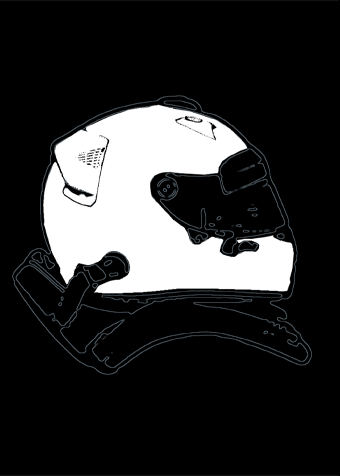
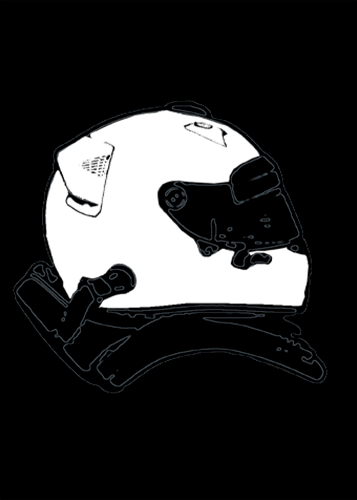
style(card): curve driver letters in a U shape and increase inclination

diff --git a/src/app/[driver_slug]/page.tsx b/src/app/[driver_slug]/page.tsx
@@ -448,24 +448,47 @@ function CredentialCard({
                         {/* Divisória sutil na transição dos 2/3 para o terço final preto */}
                         <div className="absolute top-[66%] left-0 right-0 h-[1px] bg-white/15" />
                         
-                        {/* LETRAS DO PILOTO REAL (LEC) NO CENTRO DO TERÇO SUPERIOR (ATRAS DO CAPACETE) */}
-                        <div className="absolute top-0 left-0 right-0 h-[66%] flex items-center justify-center">
-                            <span 
-                                className="font-black uppercase tracking-tight select-none -translate-y-2"
+                        {/* LETRAS DO PILOTO REAL (LEC) NO CENTRO DO TERÇO SUPERIOR (CURVADO EM 'U' E INCLINADO) */}
+                        <div className="absolute top-0 left-0 right-0 h-[66%] flex items-center justify-center px-2">
+                            <svg 
+                                viewBox="0 0 320 160" 
+                                className="w-full max-w-[310px] overflow-visible select-none pointer-events-none -translate-y-2"
                                 style={{
-                                    fontFamily: 'var(--font-montserrat), sans-serif',
-                                    fontWeight: 900,
-                                    color: carTextColor,
-                                    fontSize: 'clamp(4.2rem, 15vw, 6.8rem)',
-                                    lineHeight: 1,
-                                    transform: 'rotate(3.5deg)',
-                                    textShadow: carTextColor === '#000000' 
-                                        ? 'none' 
-                                        : '0 4px 20px rgba(0,0,0,0.6)'
+                                    transform: 'rotate(7.5deg)',
+                                    transformOrigin: 'center center'
                                 }}
                             >
-                                {realDriver?.code || 'LEC'}
-                            </span>
+                                <defs>
+                                    {/* Trajetória em curva em formato de 'U' */}
+                                    <path 
+                                        id="driver-code-arc" 
+                                        d="M 20 62 Q 160 122 300 62" 
+                                        fill="none" 
+                                    />
+                                    <filter id="driver-code-shadow" x="-30%" y="-30%" width="160%" height="160%">
+                                        <feDropShadow dx="0" dy="4" stdDeviation="6" floodColor="rgba(0,0,0,0.65)" />
+                                    </filter>
+                                </defs>
+                                <text
+                                    fill={carTextColor}
+                                    filter={carTextColor === '#000000' ? undefined : 'url(#driver-code-shadow)'}
+                                    style={{
+                                        fontFamily: 'var(--font-montserrat), sans-serif',
+                                        fontWeight: 900,
+                                        fontSize: '76px',
+                                        letterSpacing: '3px',
+                                    }}
+                                >
+                                    <textPath 
+                                        href="#driver-code-arc" 
+                                        xlinkHref="#driver-code-arc" 
+                                        startOffset="50%" 
+                                        textAnchor="middle"
+                                    >
+                                        {realDriver?.code || 'LEC'}
+                                    </textPath>
+                                </text>
+                            </svg>
                         </div>
                     </div>
 
